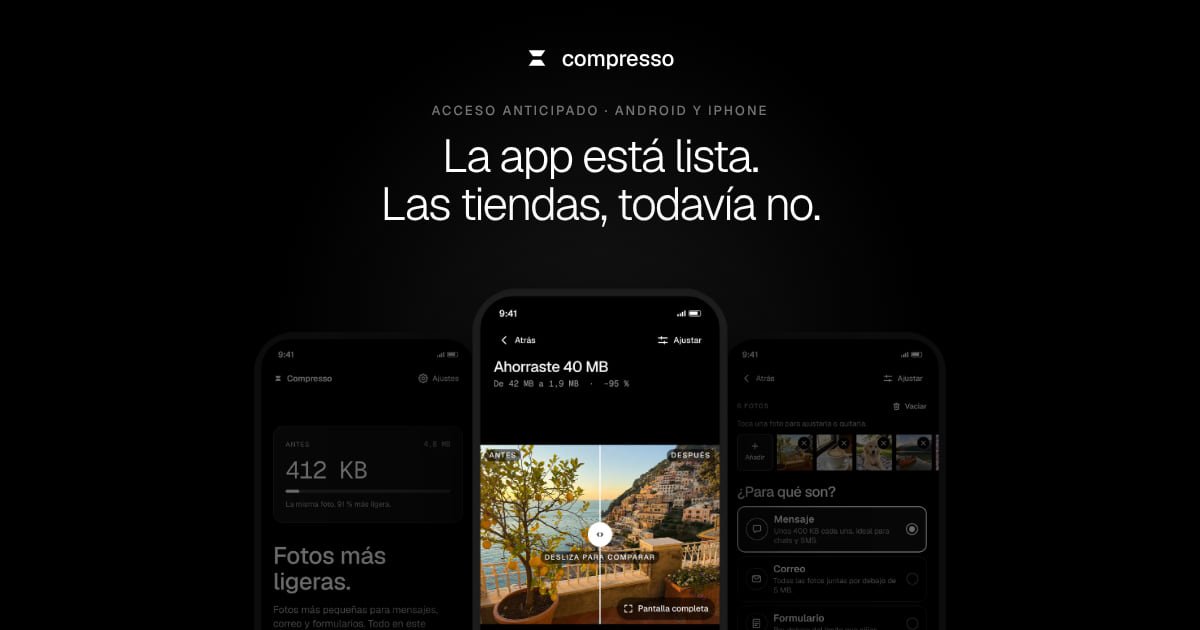
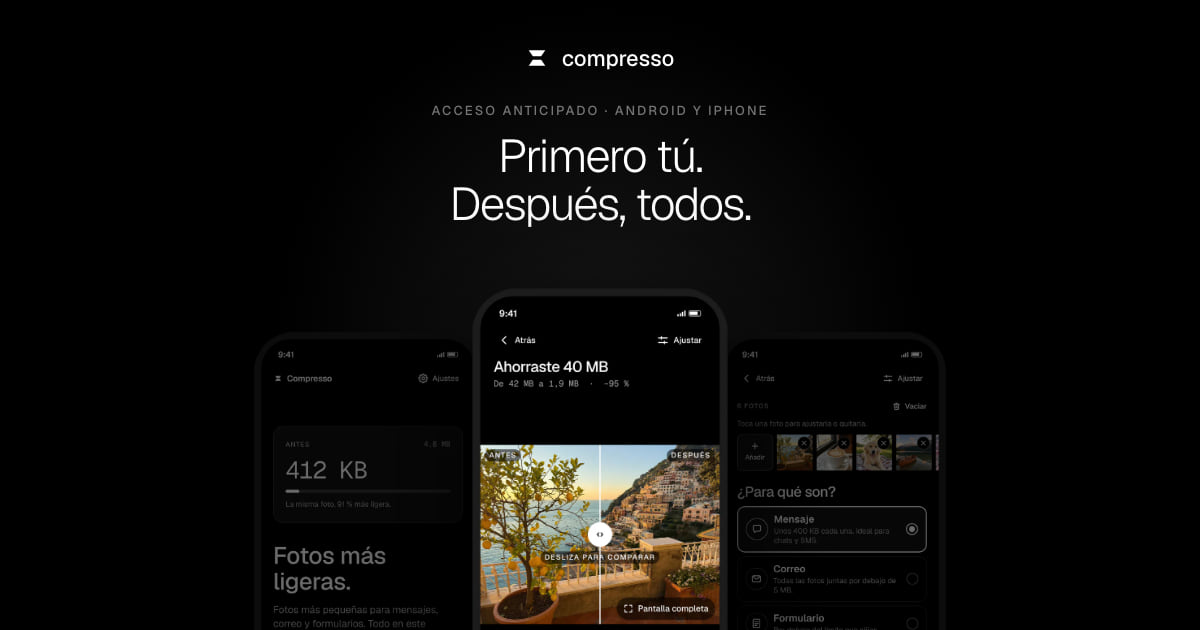
Website: early-access copy about being first; no install prompt there
The hero said the stores were not open yet, which is about the stores. It
now says the reader gets it first and everyone else later, the lede says what
the app does and that photos stay on the phone, and the closing line echoes
the hero. The invite email follows the same message in all seven languages
and no longer claims every step is a single tap. Link previews are redrawn
for the new headline (generate-early-assets.mjs --previews, no store kit).

The site manifest made Chrome offer to install the web tool on /early/,
which a visitor would take for the phone app the page is about, so the page
swallows beforeinstallprompt. Elsewhere the site still offers it.

Changed region(s): [[0.3083, 0.2111, 0.6783, 0.3619]]

diff --git a/website/src/components/early/EarlyClient.jsx b/website/src/components/early/EarlyClient.jsx
@@ -1,5 +1,6 @@
 'use client';
 
+import { useEffect } from 'react';
 import useLocaleRoute from '../../hooks/useLocaleRoute';
 import { localeSlug } from '../../lib/locale-routes';
 import { sentences } from '../../lib/text';
@@ -21,6 +22,14 @@ export default function EarlyClient({ locale }) {
   const { t, basePath, swapping, changeLocale } = useLocaleRoute(locale);
   const e = t.early;
   const slug = localeSlug(locale);
+
+  // the inline script in page.jsx covers a first load; this covers arriving
+  // by client navigation, and lets the rest of the site offer install again
+  useEffect(() => {
+    const block = window.__eaBlockInstall || ((event) => event.preventDefault());
+    window.addEventListener('beforeinstallprompt', block);
+    return () => window.removeEventListener('beforeinstallprompt', block);
+  }, []);
 
   const perks = [1, 2, 3].map((n) => ({ title: e[`perk${n}Title`], body: e[`perk${n}Body`] }));
   const steps = [1, 2, 3].map((n) => ({ title: e[`step${n}Title`], body: e[`step${n}Body`] }));

diff --git a/website/src/app/[locale]/early/page.jsx b/website/src/app/[locale]/early/page.jsx
@@ -26,7 +26,19 @@ export async function generateMetadata({ params }) {
   });
 }
 
+/** The site's manifest makes Chrome offer to install the web tool here, which
+    a visitor would take for the phone app this page is about. Set inline so it
+    is listening before the service worker makes the page installable. */
+const BLOCK_INSTALL =
+  'window.__eaBlockInstall=function(e){e.preventDefault()};' +
+  "addEventListener('beforeinstallprompt',window.__eaBlockInstall)";
+
 export default async function EarlyPage({ params }) {
   const { locale: slug } = await params;
-  return <EarlyClient locale={resolveLocaleFromSlug(slug)} />;
+  return (
+    <>
+      <script dangerouslySetInnerHTML={{ __html: BLOCK_INSTALL }} />
+      <EarlyClient locale={resolveLocaleFromSlug(slug)} />
+    </>
+  );
 }
